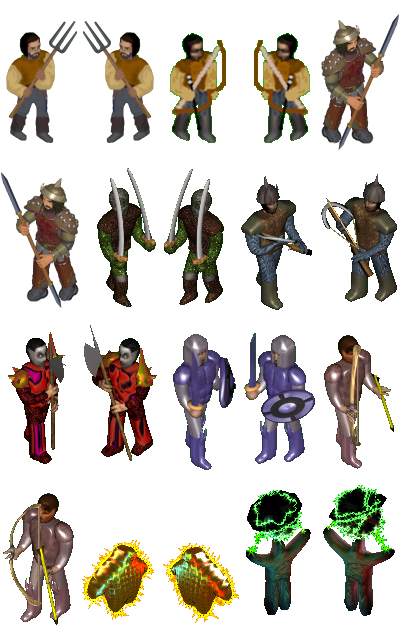
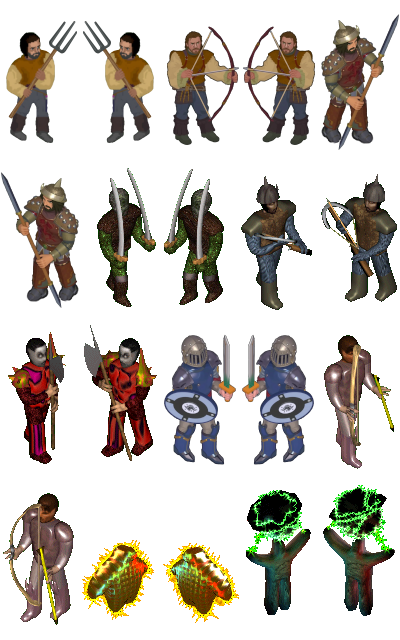
fix: cursor for direction set properly to available direction. chore: new graphics for archer and swordsman; hide cell debug text

Changed region(s): [[0.39, 0.5, 0.78, 0.75], [0.42, 0.0312, 0.81, 0.25]]

diff --git a/src/app.ts b/src/app.ts
@@ -61,7 +61,7 @@ export class HexesApp {
   private softCursorName: string = 'default';
 
   private fpsText?: BitmapText;
-  private cellDebugText?: BitmapText;
+  // private cellDebugText?: BitmapText;
   private instructionsText?: Text;
   private messagesText?: Text;
 
@@ -267,11 +267,11 @@ export class HexesApp {
     this.fpsText.alpha = 0.7;
     this.uiRenderGroup.addChild(this.fpsText);
 
-    this.cellDebugText = new BitmapText({ text: 'Cell: 0,0', style: this.DEFAULT_FONT_STYLE, });
-    this.cellDebugText.x = 62;
-    this.cellDebugText.y = 28;
-    this.cellDebugText.alpha = 0.9;
-    this.uiRenderGroup.addChild(this.cellDebugText);
+    // this.cellDebugText = new BitmapText({ text: 'Cell: 0,0', style: this.DEFAULT_FONT_STYLE, });
+    // this.cellDebugText.x = 62;
+    // this.cellDebugText.y = 28;
+    // this.cellDebugText.alpha = 0.9;
+    // this.uiRenderGroup.addChild(this.cellDebugText);
 
     const style = new TextStyle({ fontFamily: 'Arial', fontSize: 18, fill: { color: '#ffffff', alpha: 1 }, stroke: { color: '#4a1850', width: 5, join: 'round' }, });
     this.tempMessage = `Welcome to Hexes of battle v${this.version}!`
@@ -578,7 +578,7 @@ export class HexesApp {
             unitTextureName = 'peasant_archer_right.png';
             break;
           case CreatureType.SPEARMAN:
-            unitTextureName = 'pikeman_right.png';
+            unitTextureName = 'spearman_right.png';
             break;
           case CreatureType.SWORDSMAN:
             unitTextureName = 'swordman_right.png';
@@ -601,7 +601,7 @@ export class HexesApp {
             unitTextureName = 'peasant_archer_left.png';
             break;
           case CreatureType.SPEARMAN:
-            unitTextureName = 'pikeman_left.png';
+            unitTextureName = 'spearman_left.png';
             break;
           case CreatureType.SWORDSMAN:
             unitTextureName = 'swordman_left.png';
@@ -993,7 +993,7 @@ export class HexesApp {
           faceName = "peasant_archer_face.png";
           break;
         case CreatureType.SPEARMAN:
-          faceName = "pikeman_face.png";
+          faceName = "spearman_face.png";
           break;
         case CreatureType.SWORDSMAN:
           faceName = "swordman_face.png";
@@ -1005,7 +1005,7 @@ export class HexesApp {
           faceName = "crossbowman_face.png";
           break;
       }
-      
+
       const faceTexture = this.unitsSheet?.textures[faceName];
       this.unitStats.setFaceTexture(faceTexture);
 
@@ -1122,13 +1122,13 @@ export class HexesApp {
           // let hexCoords = this.hexMap.pixelToHex(navAdjustedCoords.x, navAdjustedCoords.y);
           let hexCoordsWithDetails = this.hexMap.pixelToHexWithDirectionalDetail(navAdjustedCoords.x, navAdjustedCoords.y);
           let hexCoords = hexCoordsWithDetails.cell;
-          if (this.cellDebugText) {
-            this.cellDebugText.text =
-              `Mouse: ${navAdjustedCoords.x.toFixed(2)}, ${navAdjustedCoords.y.toFixed(2)}
-               Cell: ${hexCoords.x}, ${hexCoords.y}
-               Direction: ${hexDirectionToString(hexCoordsWithDetails.direction)}`;
-            console.log(this.cellDebugText.text);
-          }
+          // if (this.cellDebugText) {
+          //   this.cellDebugText.text =
+          //     `Mouse: ${navAdjustedCoords.x.toFixed(2)}, ${navAdjustedCoords.y.toFixed(2)}
+          //      Cell: ${hexCoords.x}, ${hexCoords.y}
+          //      Direction: ${hexDirectionToString(hexCoordsWithDetails.direction)}`;
+          //   console.log(this.cellDebugText.text);
+          // }
 
           if (hexCoords.x >= 0 && hexCoords.x < this.hexMap.width && hexCoords.y >= 0 && hexCoords.y < this.hexMap.height) {
             this.battle?.onMouseClickOnCell(event, hexCoords, hexCoordsWithDetails.direction, this.controlPressed);
@@ -1191,12 +1191,12 @@ export class HexesApp {
           { x: this.navZoomLevel, y: this.navZoomLevel });
         let hexCoordsWithDetails = this.hexMap.pixelToHexWithDirectionalDetail(navAdjustedCoords.x, navAdjustedCoords.y);
         let hexCoords = hexCoordsWithDetails.cell;
-        if (this.cellDebugText) {
-          this.cellDebugText.text =
-            `Mouse: ${navAdjustedCoords.x.toFixed(2)}, ${navAdjustedCoords.y.toFixed(2)}
-             Cell: ${hexCoords.x}, ${hexCoords.y}
-             Direction: ${hexDirectionToString(hexCoordsWithDetails.direction)}`;
-        }
+        // if (this.cellDebugText) {
+        //   this.cellDebugText.text =
+        //     `Mouse: ${navAdjustedCoords.x.toFixed(2)}, ${navAdjustedCoords.y.toFixed(2)}
+        //      Cell: ${hexCoords.x}, ${hexCoords.y}
+        //      Direction: ${hexDirectionToString(hexCoordsWithDetails.direction)}`;
+        // }
 
         if (hexCoords.x >= 0 && hexCoords.x < this.hexMap.width && hexCoords.y >= 0 && hexCoords.y < this.hexMap.height) {
           this.battle.onMouseOverCell(hexCoords, hexCoordsWithDetails.direction, this.controlPressed);

diff --git a/src/battle.ts b/src/battle.ts
@@ -1,5 +1,5 @@
 import { Creature } from "./creature";
-import { HexDirection, HexMap, reverseDirection } from "./hex-map";
+import { HexDirection, hexDirectionToString, HexMap, reverseDirection } from "./hex-map";
 import { Coords } from "./shared";
 
 export class CreatureInBattle {
@@ -529,22 +529,24 @@ export class Battle {
 
     // ---- MELEE ATTACK ----
     // This is a melee creature, it can only attack from adjacent cells.
-    if (optionalDirection === HexDirection.NONE) {
-      // direction is none; TODO: check if long term this should never happen (by having much smaller sub-hex divisions)
-      // check if the target is in the unit reach data
-      const target = this.unitReachData.find((element) => element.coords.x === coords.x && element.coords.y === coords.y);
-      if (target) {
-        this.nextRenderUpdate.cursorHint = "attack_melee";
-        this.nextRenderUpdate.hoverPath = this.findPathFromSelectedUnitToCell(coords);
-      }
-      this.nextRenderUpdate.somethingChanged = true;
+    // if (optionalDirection === HexDirection.NONE) {
+    //   console.log("XXXXX: ", coords);
+    //   // direction is none; find the shortest path to the unit, and also update the cursor hint.
+    //   // check if the target is in the unit reach data
+    //   const target = this.unitReachData.find((element) => element.coords.x === coords.x && element.coords.y === coords.y);
+    //   if (target) {
+    //     this.nextRenderUpdate.cursorHint = "attack_melee";
+    //     this.nextRenderUpdate.hoverPath = this.findPathFromSelectedUnitToCell(coords);
+    //   }
+    //   this.nextRenderUpdate.somethingChanged = true;
 
-      return;
-    }
+    //   return;
+    // }
     // if the optional direction is not NONE, then we need to check if the attacker can attack from the given direction.
 
     let neighbour = this.hexMap.getNeighbourInDirection(coords, optionalDirection);
     if (!neighbour) {
+      console.log("Neighbour not found in direction: ", optionalDirection);
       this.nextRenderUpdate.somethingChanged = true;
       return;
     }
@@ -553,7 +555,28 @@ export class Battle {
     const neighbourInUnitReachData = this.unitReachData.find((element) => element.coords.x === neighbour.x && element.coords.y === neighbour.y);
     if (!neighbourInUnitReachData) {
       // Cannot reach this neighbour
-      return;
+      const target = this.unitReachData.find((element) => element.coords.x === coords.x && element.coords.y === coords.y);
+      if (target) {
+        this.nextRenderUpdate.cursorHint = "attack_melee";
+        this.nextRenderUpdate.hoverPath = this.findPathFromSelectedUnitToCell(coords);
+        // new direction
+        if (this.nextRenderUpdate.hoverPath.length >= 2) {
+          // get the direction between the last and the second last cell
+          optionalDirection = this.hexMap.getDirectionForNeighbour(coords, this.nextRenderUpdate.hoverPath[this.nextRenderUpdate.hoverPath.length - 2]);
+          this.nextRenderUpdate.cursorHint = this.getAttackCursorForDirection(reverseDirection(optionalDirection));
+          this.nextRenderUpdate.somethingChanged = true;
+          return;
+        } else {
+          return;
+        }
+
+        this.nextRenderUpdate.somethingChanged = true;
+      } else {
+        // Cannot reach the target
+        this.nextRenderUpdate.cursorHint = "";
+        this.nextRenderUpdate.somethingChanged = true;
+        return;
+      }
     }
 
     // Also check if the neighbour is occupied by an enemy unit
@@ -814,6 +837,7 @@ export class Battle {
     let damage = currentAction.type == BattleActionType.ATTACK_MELEE ? thisCreature.getRandomAttackDamageMelee() : thisCreature.getRandomAttackDamageRanged();
     let armor = currentAction.type == BattleActionType.ATTACK_MELEE ? creatureInBattle.creature.stats.defense_melee : creatureInBattle.creature.stats.defense_ranged;
     damage -= armor;
+
 
     this.hookDoingAttack(thisCreature, creatureInBattle.creature, damage);
 
